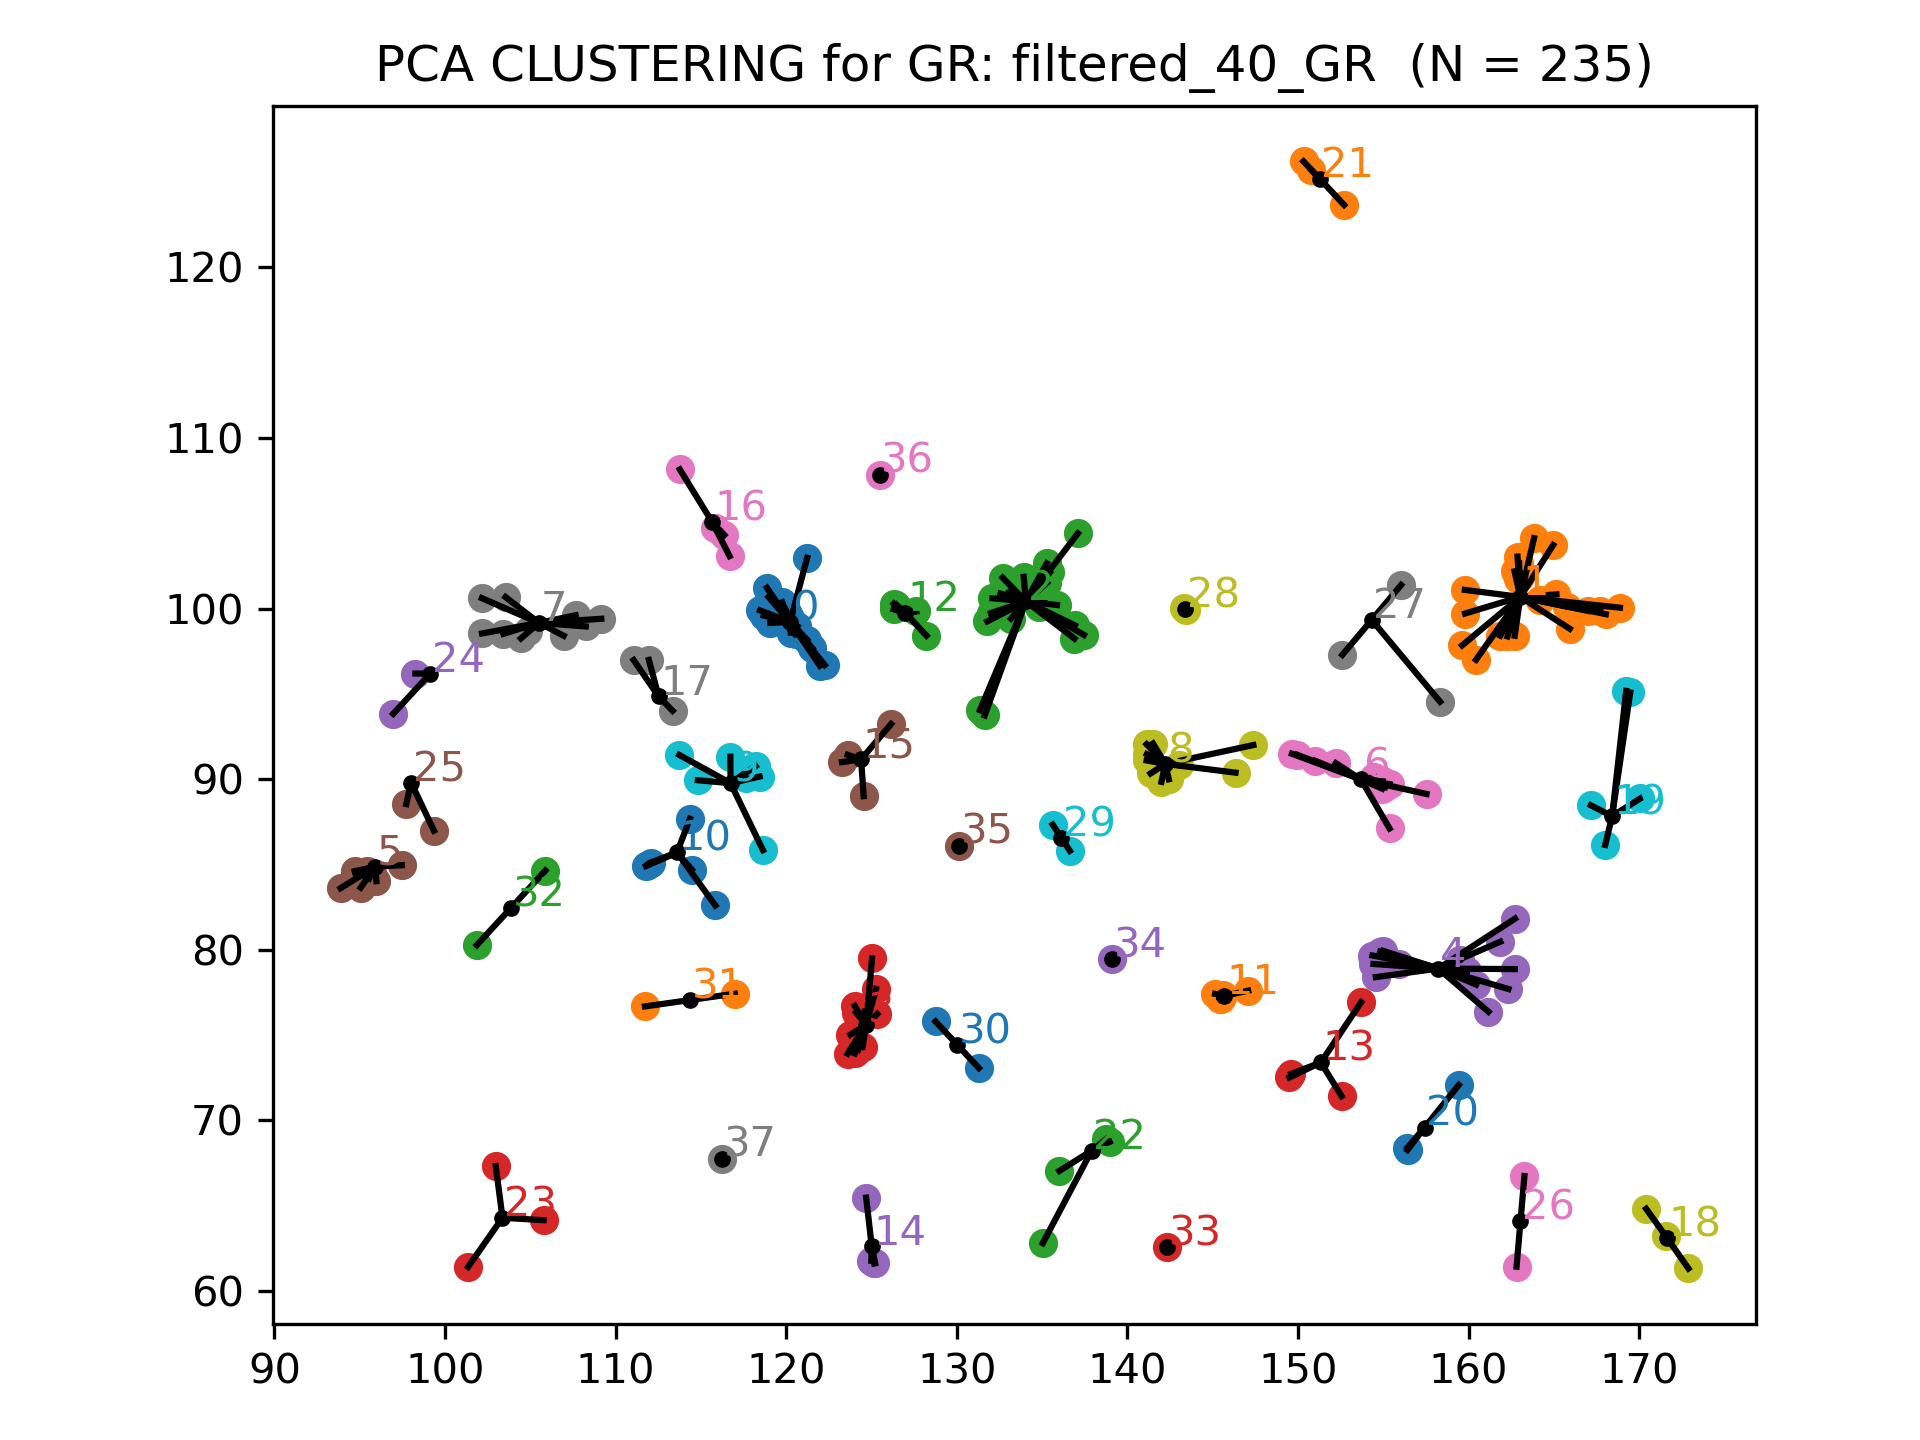
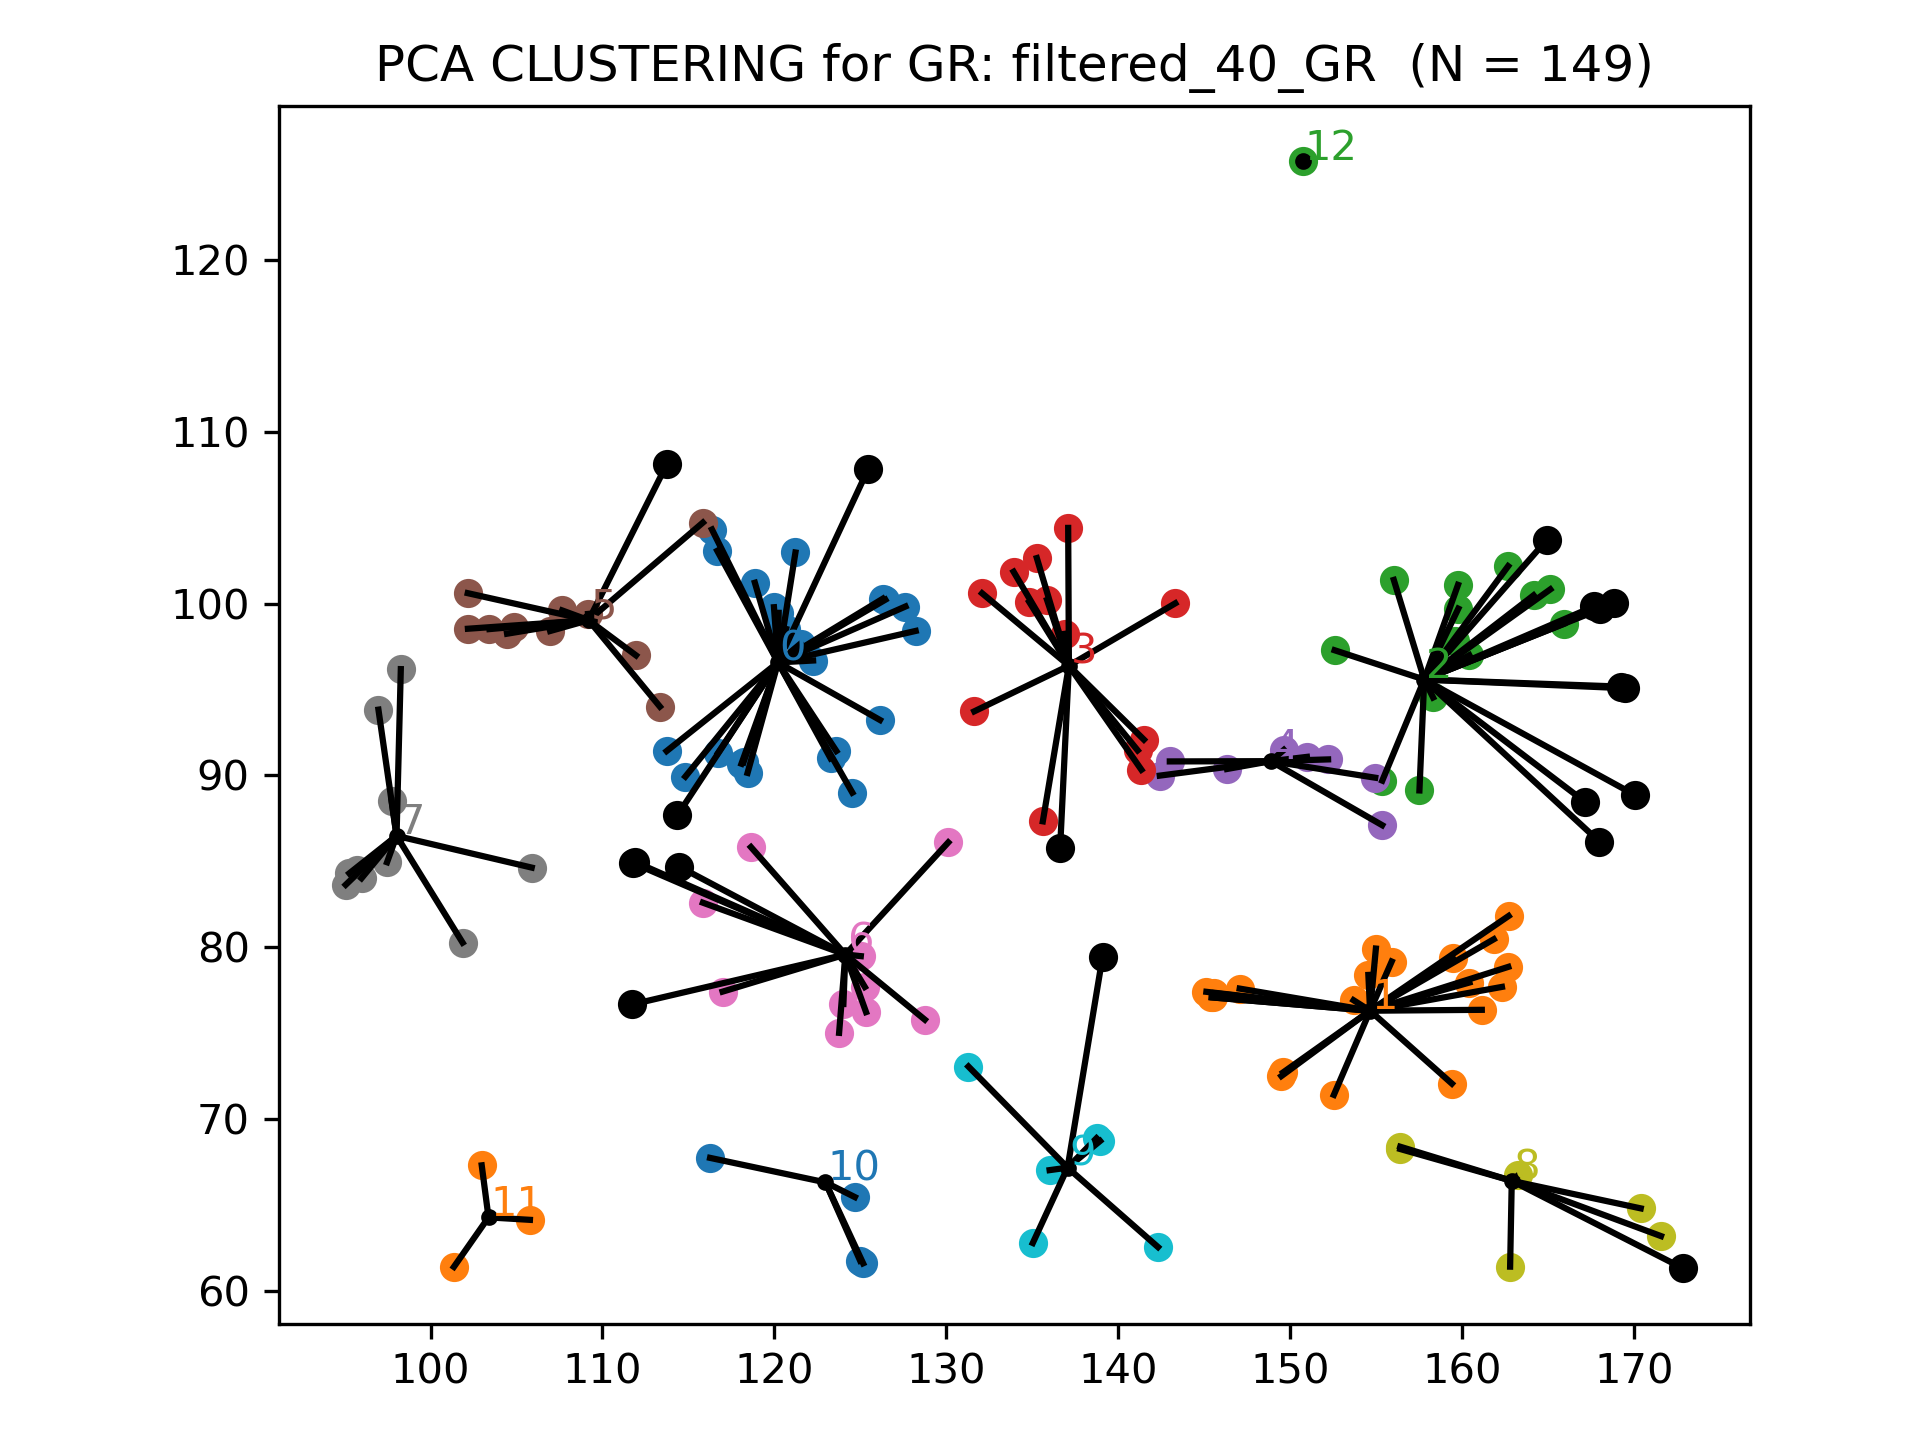
MNEw clusters parameter testing

diff --git a/scripts/clustering.py b/scripts/clustering.py
@@ -751,7 +751,7 @@ def split_by_faces(reference, force= False, by_com = True):
     #print(pd.DataFrame(reference.faces_dfs))
 
 
-def clusterize_pcas(subfolder, in_path,method="KMeans", force = False, n_clusters = None , dimensions = [0,1,2], splitted = True):
+def clusterize_pcas(subfolder, in_path,method="KMeans", quantile=0.1, n_sample_multiplier=0.5, force = False, n_clusters = None , dimensions = [0,1,2], splitted = True):
     print1("Clusterizing PCAs")
     if n_clusters is None:
         if splitted:
@@ -796,15 +796,20 @@ def clusterize_pcas(subfolder, in_path,method="KMeans", force = False, n_cluster
         print(X)
         from sklearn.cluster import MeanShift, estimate_bandwidth
 
-        bandwidth = estimate_bandwidth(X, quantile=0.1, n_samples=int(round(len(X)*0.1)))
+        bandwidth = estimate_bandwidth(X, quantile=quantile, n_samples=int(round(len(X)*n_sample_multiplier)))
 
-        model = MeanShift(bandwidth=bandwidth, bin_seeding=True)
+        model = MeanShift(bandwidth=bandwidth, bin_seeding=False, cluster_all=False, n_jobs=-1)
         model.fit(X)
         labels = model.labels_
         labels_unique = np.unique(labels)
         n_clusters_ = len(labels_unique)
 
-        print("number of estimated clusters : %d" % n_clusters_)
+        sprint("Number of estimated clusters : {}, bandwith: {}".format(n_clusters_, bandwidth))
+
+
+    elif method == "SpectralClustering":
+        from sklearn.cluster import SpectralClustering
+        pass
 
     else:
         print("Please use a valid clustering algorithm")
@@ -876,13 +881,16 @@ def plot_clustered_pcas(reference, force=True, dimensions = 3, pca_dimensions = 
     fig = plt.figure()
     if len(pca_dimensions) == 3:
         ax = fig.add_subplot(111, projection='3d')
-    elif len(pca_dimensions) == 2:
+    elif len(pca_dimensions) <= 2:
         ax = fig.add_subplot(111)
     ax.set_title(title)
     # ax.scatter(0,0,0, marker= "o", c="red")
     for row in pca_df.itertuples():
         #print(row.variance_0, row.variance_1, row.variance_2)
-        ax.scatter(*[row.__getattribute__(v) for v in columns], c=row.colour)
+        if row.cluster == -1:
+            ax.scatter(*[row.__getattribute__(v) for v in columns], c="black")
+        else:
+            ax.scatter(*[row.__getattribute__(v) for v in columns], c=row.colour)
 
     texts = []
     if plot_centres and subset is None:
@@ -902,11 +910,12 @@ def plot_clustered_pcas(reference, force=True, dimensions = 3, pca_dimensions = 
         #print(cluster_centres.columns)
         for centre in cluster_centres.itertuples():
             #print(centre)
-            ax.scatter(*[centre.__getattribute__("_"+str(x+1)) for x in range(len(pca_dimensions))], color="black", marker=".")
-            if labels_centres:
-                print3("annotating", centre[0], end="\r")#, centre[1:])
-                ax.text( *[c+.1 for c in centre[1:]], centre[0], color="C{}".format(centre[0]))
-                pass
+            if centre[0] != -1:
+                ax.scatter(*[centre.__getattribute__("_"+str(x+1)) for x in range(len(pca_dimensions))], color="black", marker=".")
+                if labels_centres:
+                    print3("annotating", centre[0], end="\r")#, centre[1:])
+                    ax.text( *[c+.1 for c in centre[1:]], centre[0], color="C{}".format(centre[0]))
+                    pass
 
         centres = []
         for centre in cluster_centres.itertuples():
@@ -962,7 +971,7 @@ def quick_cluster(coords, n_clusters=3):
 
 
 
-def remove_redundancy(in_path):
+def remove_redundancy(in_path, threshold=3):
     pca_df = pd.read_csv(in_path)
     pca_df.sort_values(by=["variance_0", "variance_1", "variance_2"], inplace=True)
     print(pca_df)
@@ -980,9 +989,9 @@ def remove_redundancy(in_path):
         sprint(row1.id, row1.Index)
         for row2 in pca_df.iloc[row1.Index+1:,:].itertuples():
             print2(row2.Index, end="\r")
-            if abs(row1.variance_0-row2.variance_0) < 1:
-                if abs(row1.variance_1-row2.variance_1) < 1:
-                    if abs(row1.variance_2 - row2.variance_2) < 1:
+            if abs(row1.variance_0-row2.variance_0) < threshold:
+                if abs(row1.variance_1-row2.variance_1) < threshold:
+                    if abs(row1.variance_2 - row2.variance_2) < threshold:
                         print3("Removing:", row1.id, row1.Index)
                         dimer_list.remove(row1.id)
                         break
@@ -998,7 +1007,7 @@ def remove_redundancy(in_path):
 
 
 def cluster_by_face(reference, FORCE_ALL=False, DIMENSIONS=3, n_clusters = 4, minimum_score=0, pca = True,
-                    pca_dimensions = [0,1,2], splitted=True, rem_red = True, method = "KMeans"):
+                    pca_dimensions = [0,1,2], splitted=True, rem_red = True, method = "KMeans", quantile=0.1, n_sample_multiplier = 0.5,):
 
 
 
@@ -1078,7 +1087,7 @@ def cluster_by_face(reference, FORCE_ALL=False, DIMENSIONS=3, n_clusters = 4, mi
                 pca_path = remove_redundancy(pca_path)
             #plot_pcas(pcas, title="GR: {}  (N = {})".format(file.split(".")[0], len(pcas)))
             clustered_path = clusterize_pcas(method=method, subfolder=subfolder_name, in_path = pca_path, force=FORCE_CLUSTER,
-                                             dimensions=pca_dimensions,splitted=splitted)
+                                             dimensions=pca_dimensions,splitted=splitted, quantile =quantile, n_sample_multiplier=n_sample_multiplier)
             plot_path = plot_clustered_pcas(reference, labels=False, labels_centres=True,  force = FORCE_PLOT,
                                 dimensions=DIMENSIONS, subfolder=subfolder_name, in_path=clustered_path, pca = True,
                                             pca_dimensions=pca_dimensions, splitted=splitted)

diff --git a/scripts/main.py b/scripts/main.py
@@ -42,7 +42,9 @@ def main(PROCESS_ALL = False,
          COMPARE = True,
          SPLIT_FACES_ANYWAY = False,
          REMOVE_REDUNDANCY = True,
-         CLUSTERING_METHOD = "KMeans"
+         CLUSTERING_METHOD = "KMeans",
+         N_SAMPLE_MULTIPLIER = 0.5,
+         QUANTILE = 0.1,
          ):
 
 
@@ -194,7 +196,8 @@ def main(PROCESS_ALL = False,
 
             cluster_by_face(reference, FORCE_ALL= FORCE_CLUSTERING or PROCESS_ALL, minimum_score=MINIMUM_SCORE,
                             n_clusters=N_CLUSTERS, pca=CLUSTER_BY_PCA, pca_dimensions = DIMENSIONS_PCA,
-                            splitted=SPLIT_FACES, rem_red=REMOVE_REDUNDANCY, method = CLUSTERING_METHOD)
+                            splitted=SPLIT_FACES, rem_red=REMOVE_REDUNDANCY, method = CLUSTERING_METHOD,
+                            quantile=QUANTILE, n_sample_multiplier=N_SAMPLE_MULTIPLIER)
             reference.pickle()
         #save_dfs(general=False, clustering=True)
 
@@ -272,11 +275,13 @@ if __name__ == "__main__":
          ONLY_GR = True, # Whether to only cluster GR
          REMOVE_REDUNDANCY = True,
          CLUSTERING_METHOD = "MeanShift",
+         QUANTILE= 0.1,
+         N_SAMPLE_MULTIPLIER = 0.1,
 
          N_CLUSTERS = 4,
          CLUSTER_BY_PCA = True,
-         DIMENSIONS_PCA = [1,2],
-         MINIMUM_SCORE = 40,
+         DIMENSIONS_PCA = [0,1,2],
+         MINIMUM_SCORE = 0,
 
 
 
